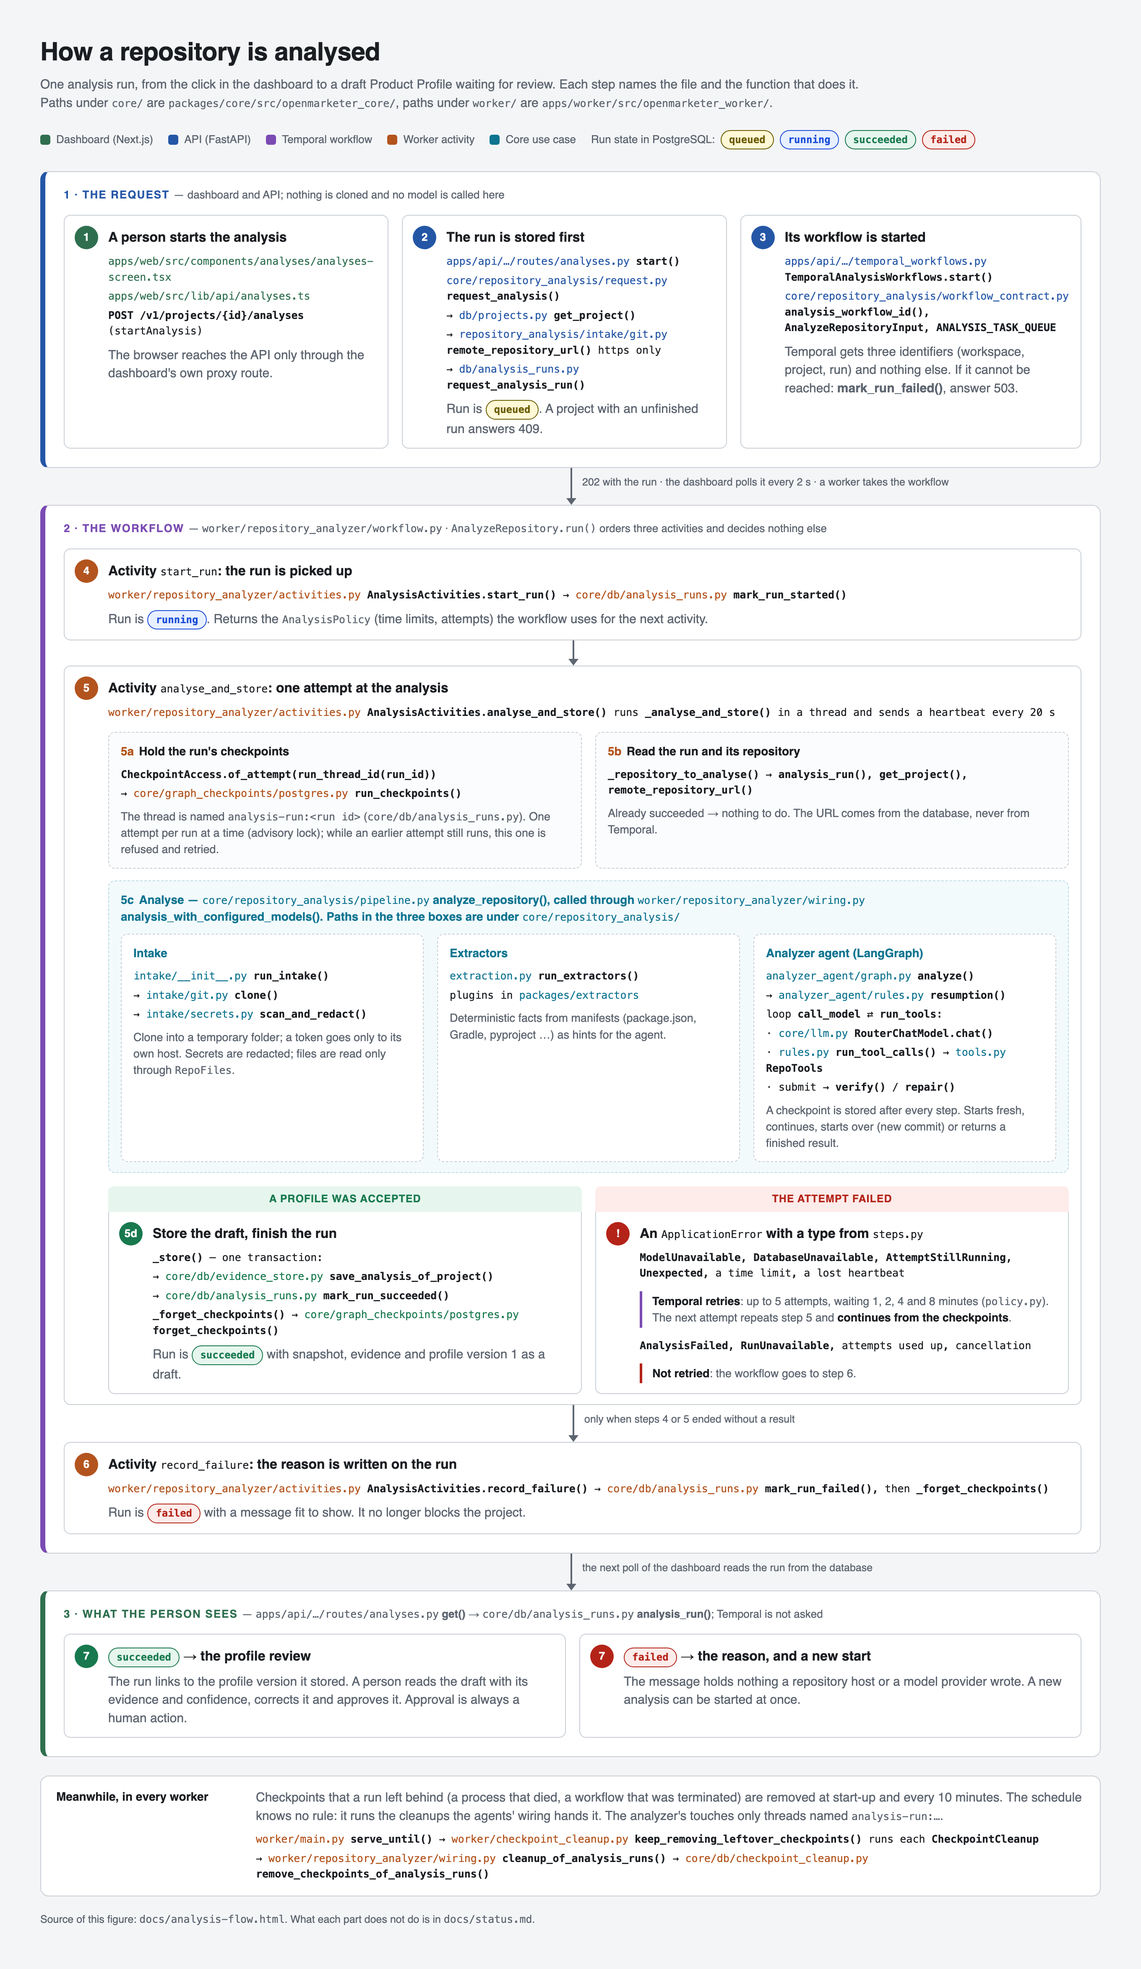
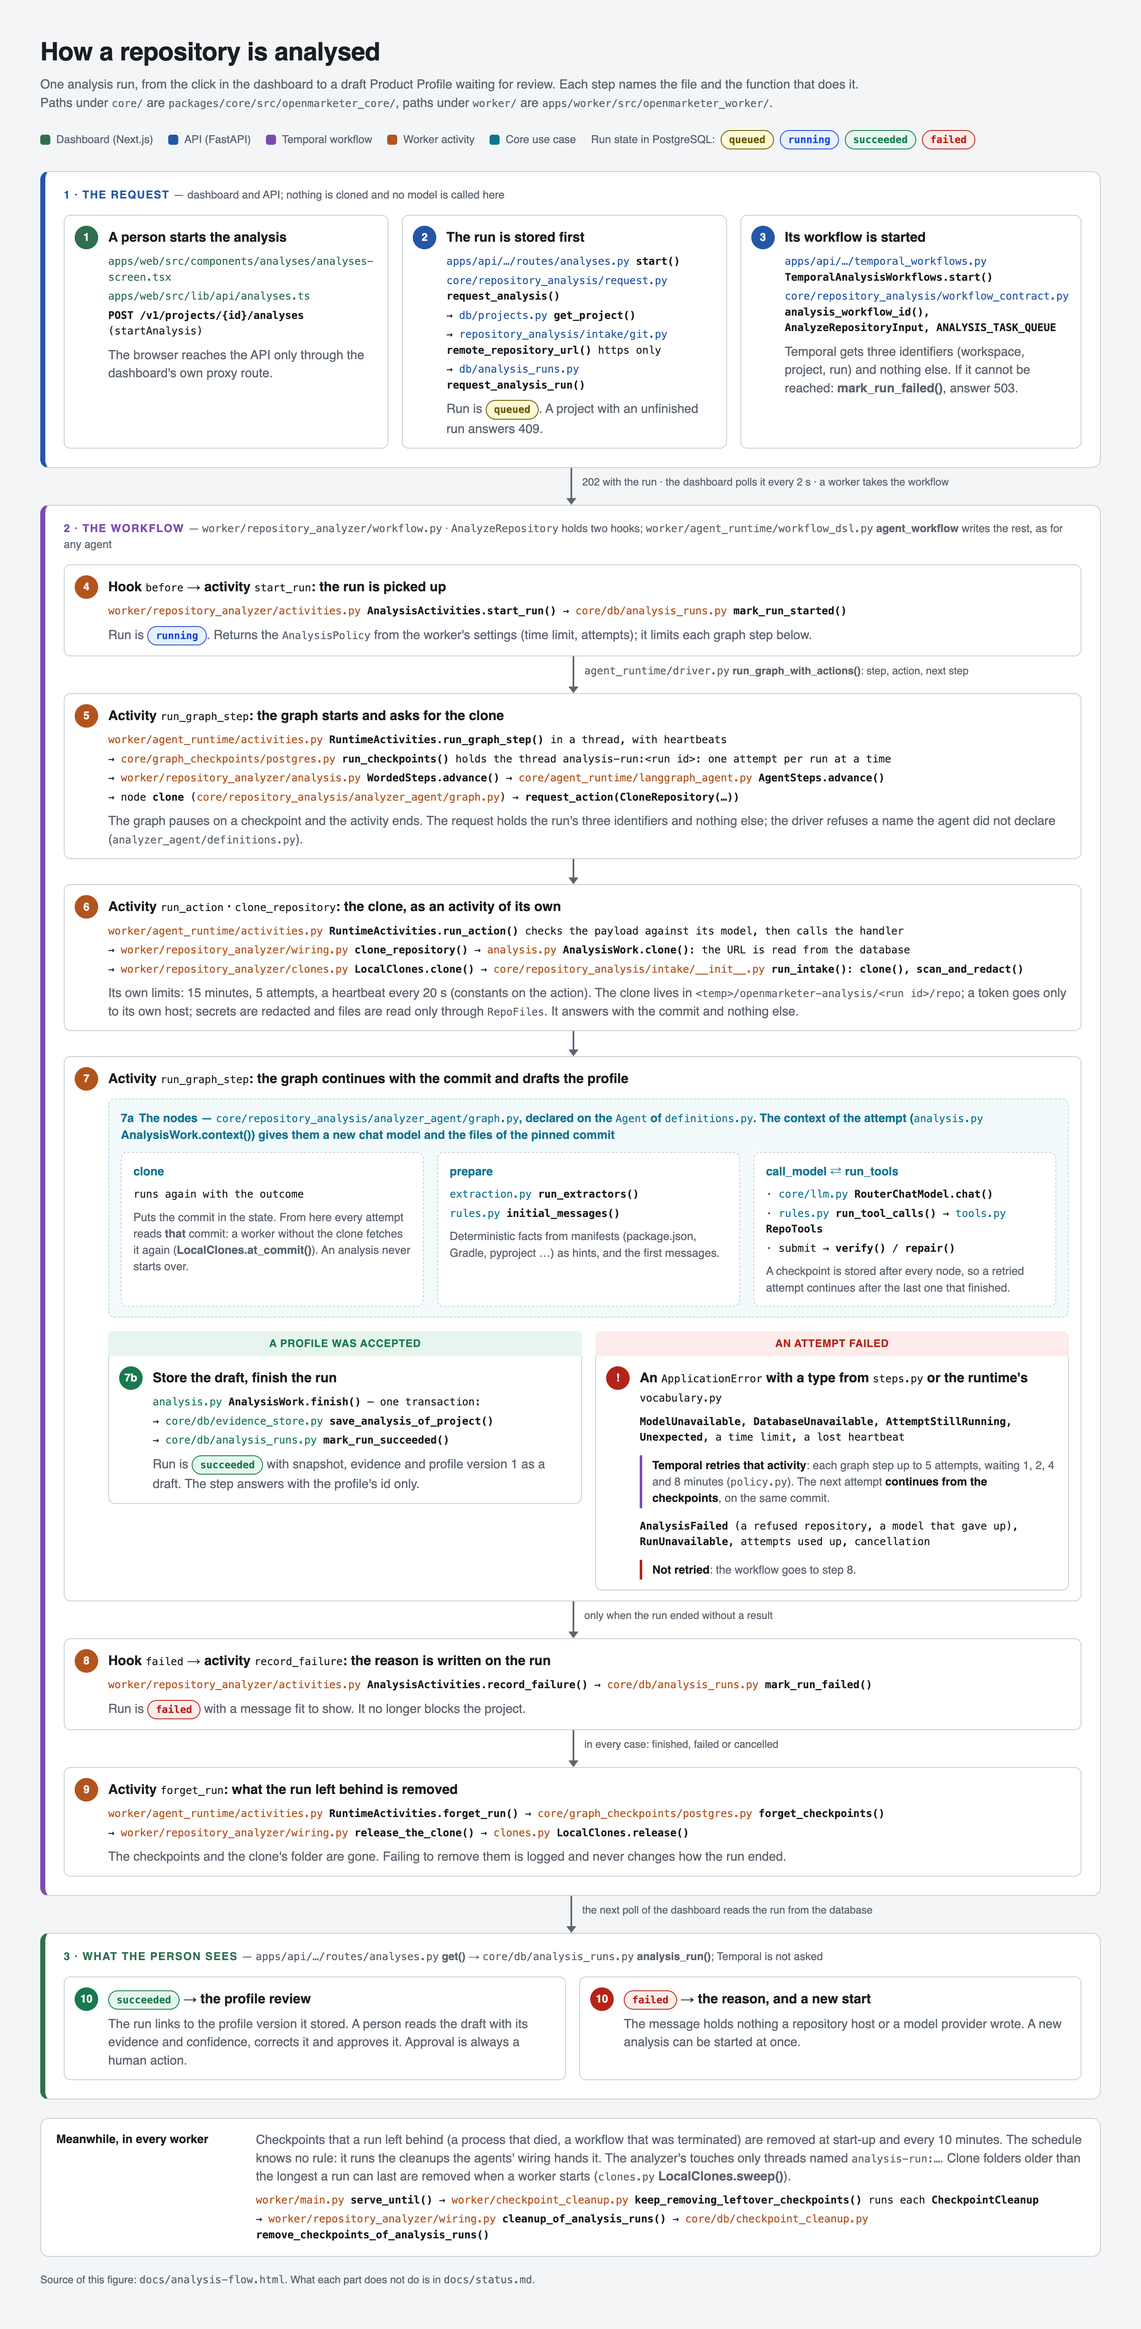
Redraw the analysis flow for the analyzer's new shape
The drawing still showed one analyse_and_store activity, CheckpointAccess
and the rule that started an analysis over on a new commit. It now shows
the two hooks of the workflow, the graph step that asks for the clone,
the clone as an activity of its own, the step that drafts and stores the
profile, and forget_run, with the file and function behind each.

Changed region(s): [[0.0312, 0.0, 0.9375, 0.9957], [0.0312, 0.9646, 0.1875, 0.9957]]

diff --git a/docs/analysis-flow.html b/docs/analysis-flow.html
@@ -9,7 +9,7 @@
   with the file and function behind each step. docs/analysis-flow.png is this page rendered:
 
     "/Applications/Google Chrome.app/Contents/MacOS/Google Chrome" --headless --hide-scrollbars \
-      --force-device-scale-factor=2 --window-size=1360,2346 \
+      --force-device-scale-factor=2 --window-size=1360,2775 \
       --screenshot=docs/analysis-flow.png docs/analysis-flow.html
 
   Update both when a step, a file or a function named here changes.
@@ -207,78 +207,77 @@
 
   <!-- ------------------------------------------------------------------ workflow -->
   <section class="lane" style="--c: var(--temporal)">
-    <h2>2 · The workflow <small>— <code>worker/repository_analyzer/workflow.py</code> · <code>AnalyzeRepository.run()</code> orders three activities and decides nothing else</small></h2>
+    <h2>2 · The workflow <small>— <code>worker/repository_analyzer/workflow.py</code> · <code>AnalyzeRepository</code> holds two hooks; <code>worker/agent_runtime/workflow_dsl.py</code> <b>agent_workflow</b> writes the rest, as for any agent</small></h2>
 
     <div class="step" style="--c: var(--worker)">
       <span class="n">4</span>
-      <h3>Activity <code>start_run</code>: the run is picked up</h3>
+      <h3>Hook <code>before</code> → activity <code>start_run</code>: the run is picked up</h3>
       <ul class="where">
         <li><span class="f">worker/repository_analyzer/activities.py</span> <b>AnalysisActivities.start_run()</b>
             → <span class="f">core/db/analysis_runs.py</span> <b>mark_run_started()</b></li>
       </ul>
-      <p>Run is <b class="state running">running</b>. Returns the <code>AnalysisPolicy</code> (time limits, attempts) the workflow uses for the next activity.</p>
+      <p>Run is <b class="state running">running</b>. Returns the <code>AnalysisPolicy</code> from the worker's settings (time limit, attempts); it limits each graph step below.</p>
+    </div>
+
+    <div class="down label"><span><code>agent_runtime/driver.py</code> <b>run_graph_with_actions()</b>: step, action, next step</span></div>
+
+    <div class="step" style="--c: var(--worker)">
+      <span class="n">5</span>
+      <h3>Activity <code>run_graph_step</code>: the graph starts and asks for the clone</h3>
+      <ul class="where">
+        <li><span class="f">worker/agent_runtime/activities.py</span> <b>RuntimeActivities.run_graph_step()</b> in a thread, with heartbeats</li>
+        <li>→ <span class="f">core/graph_checkpoints/postgres.py</span> <b>run_checkpoints()</b> holds the thread <code>analysis-run:&lt;run id&gt;</code>: one attempt per run at a time</li>
+        <li>→ <span class="f">worker/repository_analyzer/analysis.py</span> <b>WordedSteps.advance()</b> → <span class="f">core/agent_runtime/langgraph_agent.py</span> <b>AgentSteps.advance()</b></li>
+        <li>→ node <b>clone</b> (<span class="f">core/repository_analysis/analyzer_agent/graph.py</span>) → <b>request_action(CloneRepository(…))</b></li>
+      </ul>
+      <p>The graph pauses on a checkpoint and the activity ends. The request holds the run's three identifiers and nothing else; the driver refuses a name the agent did not declare (<code>analyzer_agent/definitions.py</code>).</p>
     </div>
 
     <div class="down"></div>
 
     <div class="step" style="--c: var(--worker)">
-      <span class="n">5</span>
-      <h3>Activity <code>analyse_and_store</code>: one attempt at the analysis</h3>
+      <span class="n">6</span>
+      <h3>Activity <code>run_action</code> · <code>clone_repository</code>: the clone, as an activity of its own</h3>
       <ul class="where">
-        <li><span class="f">worker/repository_analyzer/activities.py</span> <b>AnalysisActivities.analyse_and_store()</b>
-            runs <b>_analyse_and_store()</b> in a thread and sends a heartbeat every 20 s</li>
+        <li><span class="f">worker/agent_runtime/activities.py</span> <b>RuntimeActivities.run_action()</b> checks the payload against its model, then calls the handler</li>
+        <li>→ <span class="f">worker/repository_analyzer/wiring.py</span> <b>clone_repository()</b> → <span class="f">analysis.py</span> <b>AnalysisWork.clone()</b>: the URL is read from the database</li>
+        <li>→ <span class="f">worker/repository_analyzer/clones.py</span> <b>LocalClones.clone()</b> → <span class="f">core/repository_analysis/intake/__init__.py</span> <b>run_intake()</b>:
+            <b>clone()</b>, <b>scan_and_redact()</b></li>
       </ul>
+      <p>Its own limits: 15 minutes, 5 attempts, a heartbeat every 20 s (constants on the action). The clone lives in <code>&lt;temp&gt;/openmarketer-analysis/&lt;run id&gt;/repo</code>; a token goes only to its own host; secrets are redacted and files are read only through <code>RepoFiles</code>. It answers with the commit and nothing else.</p>
+    </div>
 
-      <div class="cols two" style="margin-top:12px">
-        <div class="sub" style="--c: var(--worker)">
-          <h4><em>5a</em>Hold the run's checkpoints</h4>
-          <ul class="where">
-            <li><b>CheckpointAccess.of_attempt(run_thread_id(run_id))</b></li>
-            <li>→ <span class="f">core/graph_checkpoints/postgres.py</span> <b>run_checkpoints()</b></li>
-          </ul>
-          <p>The thread is named <code>analysis-run:&lt;run id&gt;</code> (<code>core/db/analysis_runs.py</code>). One attempt per run at a time (advisory lock); while an earlier attempt still runs, this one is refused and retried.</p>
-        </div>
-        <div class="sub" style="--c: var(--worker)">
-          <h4><em>5b</em>Read the run and its repository</h4>
-          <ul class="where">
-            <li><b>_repository_to_analyse()</b> → <b>analysis_run()</b>, <b>get_project()</b>, <b>remote_repository_url()</b></li>
-          </ul>
-          <p>Already succeeded → nothing to do. The URL comes from the database, never from Temporal.</p>
-        </div>
-      </div>
+    <div class="down"></div>
 
-      <div class="sub core" style="margin-top:14px">
-        <h4><em>5c</em>Analyse — <code>core/repository_analysis/pipeline.py</code> <b>analyze_repository()</b>, called through
-            <code>worker/repository_analyzer/wiring.py</code> <b>analysis_with_configured_models()</b>. Paths in the three boxes are under <code>core/repository_analysis/</code></h4>
+    <div class="step" style="--c: var(--worker)">
+      <span class="n">7</span>
+      <h3>Activity <code>run_graph_step</code>: the graph continues with the commit and drafts the profile</h3>
+      <div class="sub core" style="margin-top:12px">
+        <h4><em>7a</em>The nodes — <code>core/repository_analysis/analyzer_agent/graph.py</code>, declared on the <code>Agent</code> of <code>definitions.py</code>. The context of the attempt (<code>analysis.py</code> <b>AnalysisWork.context()</b>) gives them a new chat model and the files of the pinned commit</h4>
         <div class="cols three" style="margin-top:10px">
           <div class="sub" style="background:#fff">
-            <h4>Intake</h4>
+            <h4>clone</h4>
             <ul class="where">
-              <li><span class="f">intake/__init__.py</span> <b>run_intake()</b></li>
-              <li>→ <span class="f">intake/git.py</span> <b>clone()</b></li>
-              <li>→ <span class="f">intake/secrets.py</span> <b>scan_and_redact()</b></li>
+              <li>runs again with the outcome</li>
             </ul>
-            <p>Clone into a temporary folder; a token goes only to its own host. Secrets are redacted; files are read only through <code>RepoFiles</code>.</p>
+            <p>Puts the commit in the state. From here every attempt reads <b>that</b> commit: a worker without the clone fetches it again (<b>LocalClones.at_commit()</b>). An analysis never starts over.</p>
           </div>
           <div class="sub" style="background:#fff">
-            <h4>Extractors</h4>
+            <h4>prepare</h4>
             <ul class="where">
               <li><span class="f">extraction.py</span> <b>run_extractors()</b></li>
-              <li>plugins in <span class="f">packages/extractors</span></li>
+              <li><span class="f">rules.py</span> <b>initial_messages()</b></li>
             </ul>
-            <p>Deterministic facts from manifests (package.json, Gradle, pyproject …) as hints for the agent.</p>
+            <p>Deterministic facts from manifests (package.json, Gradle, pyproject …) as hints, and the first messages.</p>
           </div>
           <div class="sub" style="background:#fff">
-            <h4>Analyzer agent (LangGraph)</h4>
+            <h4>call_model ⇄ run_tools</h4>
             <ul class="where">
-              <li><span class="f">analyzer_agent/graph.py</span> <b>analyze()</b></li>
-              <li>→ <span class="f">analyzer_agent/rules.py</span> <b>resumption()</b></li>
-              <li>loop <b>call_model</b> ⇄ <b>run_tools</b>:</li>
               <li>· <span class="f">core/llm.py</span> <b>RouterChatModel.chat()</b></li>
               <li>· <span class="f">rules.py</span> <b>run_tool_calls()</b> → <span class="f">tools.py</span> <b>RepoTools</b></li>
               <li>· submit → <b>verify()</b> / <b>repair()</b></li>
             </ul>
-            <p>A checkpoint is stored after every step. Starts fresh, continues, starts over (new commit) or returns a finished result.</p>
+            <p>A checkpoint is stored after every node, so a retried attempt continues after the last one that finished.</p>
           </div>
         </div>
       </div>
@@ -287,48 +286,60 @@
         <div class="ok">
           <div class="head">a profile was accepted</div>
           <div class="step" style="--c: var(--good)">
-            <span class="n">5d</span>
+            <span class="n">7b</span>
             <h3>Store the draft, finish the run</h3>
             <ul class="where">
-              <li><b>_store()</b> — one transaction:</li>
+              <li><span class="f">analysis.py</span> <b>AnalysisWork.finish()</b> — one transaction:</li>
               <li>→ <span class="f">core/db/evidence_store.py</span> <b>save_analysis_of_project()</b></li>
               <li>→ <span class="f">core/db/analysis_runs.py</span> <b>mark_run_succeeded()</b></li>
-              <li><b>_forget_checkpoints()</b> → <span class="f">core/graph_checkpoints/postgres.py</span> <b>forget_checkpoints()</b></li>
             </ul>
-            <p>Run is <b class="state succeeded">succeeded</b> with snapshot, evidence and profile version 1 as a draft.</p>
+            <p>Run is <b class="state succeeded">succeeded</b> with snapshot, evidence and profile version 1 as a draft. The step answers with the profile's id only.</p>
           </div>
         </div>
         <div class="ko">
-          <div class="head">the attempt failed</div>
+          <div class="head">an attempt failed</div>
           <div class="step" style="--c: var(--bad)">
             <span class="n">!</span>
-            <h3>An <code>ApplicationError</code> with a type from <code>steps.py</code></h3>
+            <h3>An <code>ApplicationError</code> with a type from <code>steps.py</code> or the runtime's <code>vocabulary.py</code></h3>
             <ul class="where">
               <li><b>ModelUnavailable</b>, <b>DatabaseUnavailable</b>, <b>AttemptStillRunning</b>, <b>Unexpected</b>, a time limit, a lost heartbeat</li>
             </ul>
             <div class="retry">
-              <b>Temporal retries</b>: up to 5 attempts, waiting 1, 2, 4 and 8 minutes (<code>policy.py</code>).
-              The next attempt repeats step 5 and <b>continues from the checkpoints</b>.
+              <b>Temporal retries that activity</b>: each graph step up to 5 attempts, waiting 1, 2, 4 and 8 minutes (<code>policy.py</code>).
+              The next attempt <b>continues from the checkpoints</b>, on the same commit.
             </div>
             <ul class="where" style="margin-top:10px">
-              <li><b>AnalysisFailed</b>, <b>RunUnavailable</b>, attempts used up, cancellation</li>
+              <li><b>AnalysisFailed</b> (a refused repository, a model that gave up), <b>RunUnavailable</b>, attempts used up, cancellation</li>
             </ul>
-            <div class="retry" style="border-color: var(--bad)"><b>Not retried</b>: the workflow goes to step 6.</div>
+            <div class="retry" style="border-color: var(--bad)"><b>Not retried</b>: the workflow goes to step 8.</div>
           </div>
         </div>
       </div>
     </div>
 
-    <div class="down label"><span>only when steps 4 or 5 ended without a result</span></div>
+    <div class="down label"><span>only when the run ended without a result</span></div>
 
     <div class="step" style="--c: var(--worker)">
-      <span class="n">6</span>
-      <h3>Activity <code>record_failure</code>: the reason is written on the run</h3>
+      <span class="n">8</span>
+      <h3>Hook <code>failed</code> → activity <code>record_failure</code>: the reason is written on the run</h3>
       <ul class="where">
         <li><span class="f">worker/repository_analyzer/activities.py</span> <b>AnalysisActivities.record_failure()</b>
-            → <span class="f">core/db/analysis_runs.py</span> <b>mark_run_failed()</b>, then <b>_forget_checkpoints()</b></li>
+            → <span class="f">core/db/analysis_runs.py</span> <b>mark_run_failed()</b></li>
       </ul>
       <p>Run is <b class="state failed">failed</b> with a message fit to show. It no longer blocks the project.</p>
+    </div>
+
+    <div class="down label"><span>in every case: finished, failed or cancelled</span></div>
+
+    <div class="step" style="--c: var(--worker)">
+      <span class="n">9</span>
+      <h3>Activity <code>forget_run</code>: what the run left behind is removed</h3>
+      <ul class="where">
+        <li><span class="f">worker/agent_runtime/activities.py</span> <b>RuntimeActivities.forget_run()</b>
+            → <span class="f">core/graph_checkpoints/postgres.py</span> <b>forget_checkpoints()</b></li>
+        <li>→ <span class="f">worker/repository_analyzer/wiring.py</span> <b>release_the_clone()</b> → <span class="f">clones.py</span> <b>LocalClones.release()</b></li>
+      </ul>
+      <p>The checkpoints and the clone's folder are gone. Failing to remove them is logged and never changes how the run ended.</p>
     </div>
   </section>
 
@@ -339,12 +350,12 @@
     <h2>3 · What the person sees <small>— <code>apps/api/…/routes/analyses.py</code> <b>get()</b> → <code>core/db/analysis_runs.py</code> <b>analysis_run()</b>; Temporal is not asked</small></h2>
     <div class="cols two">
       <div class="step" style="--c: var(--good)">
-        <span class="n">7</span>
+        <span class="n">10</span>
         <h3><b class="state succeeded">succeeded</b> → the profile review</h3>
         <p>The run links to the profile version it stored. A person reads the draft with its evidence and confidence, corrects it and approves it. Approval is always a human action.</p>
       </div>
       <div class="step" style="--c: var(--bad)">
-        <span class="n">7</span>
+        <span class="n">10</span>
         <h3><b class="state failed">failed</b> → the reason, and a new start</h3>
         <p>The message holds nothing a repository host or a model provider wrote. A new analysis can be started at once.</p>
       </div>
@@ -354,7 +365,7 @@
   <div class="aside">
     <h2>Meanwhile, in every worker</h2>
     <div>
-      <p>Checkpoints that a run left behind (a process that died, a workflow that was terminated) are removed at start-up and every 10 minutes. The schedule knows no rule: it runs the cleanups the agents' wiring hands it. The analyzer's touches only threads named <code>analysis-run:…</code>.</p>
+      <p>Checkpoints that a run left behind (a process that died, a workflow that was terminated) are removed at start-up and every 10 minutes. The schedule knows no rule: it runs the cleanups the agents' wiring hands it. The analyzer's touches only threads named <code>analysis-run:…</code>. Clone folders older than the longest a run can last are removed when a worker starts (<code>clones.py</code> <b>LocalClones.sweep()</b>).</p>
       <ul class="where" style="--c: var(--worker)">
         <li><span class="f">worker/main.py</span> <b>serve_until()</b> →
             <span class="f">worker/checkpoint_cleanup.py</span> <b>keep_removing_leftover_checkpoints()</b> runs each <b>CheckpointCleanup</b></li>

diff --git a/docs/status.md b/docs/status.md
@@ -27,7 +27,7 @@ Phase 1 of the roadmap is "repository analyzer and Product Profile": extractors,
 | Review UI | Built: projects, analyses and the profile review, on top of the API. See [The dashboard](#the-dashboard) | `apps/web/` |
 | Golden-repository evaluation: golden cases, analyzer runs on a pinned commit, a judge, scores and a report | Built; one case so far, with a label that no person has reviewed. See [Golden-repository evaluation](#golden-repository-evaluation) | `packages/evaluation/`, `openmarketer evaluate` in `apps/cli/`, cases in `evals/cases/`, results in `evals/results/` |
 
-Four things run (five with the benchmark, `make evaluate`, described [below](#golden-repository-evaluation)): the command line, end to end; the API, which registers a repository, hands its analysis to the worker and reads, edits and approves the resulting profile; the worker, which executes the analysis as a Temporal workflow; and the dashboard, where a person does all of that in a browser. How one analysis runs end to end through the last three is drawn in [analysis-flow.png](analysis-flow.png) (source: `analysis-flow.html`): the path of a run from the click in the dashboard to the stored draft profile, with the file and function behind each step. **The drawing shows the worker as it was before the analyzer moved onto the agent runtime** (one activity `analyse_and_store`, `CheckpointAccess` taken inside it, the rule `resumption`); the part from the API to the start of the workflow, and the stored result, still hold. It has not been redrawn; [The worker](#the-worker) is what is true. The command line first:
+Four things run (five with the benchmark, `make evaluate`, described [below](#golden-repository-evaluation)): the command line, end to end; the API, which registers a repository, hands its analysis to the worker and reads, edits and approves the resulting profile; the worker, which executes the analysis as a Temporal workflow; and the dashboard, where a person does all of that in a browser. How one analysis runs end to end through the last three is drawn in [analysis-flow.png](analysis-flow.png) (source: `analysis-flow.html`): the path of a run from the click in the dashboard to the stored draft profile, with the file and function behind each step.
 
 ```bash
 make analyze repo=https://github.com/owner/name
